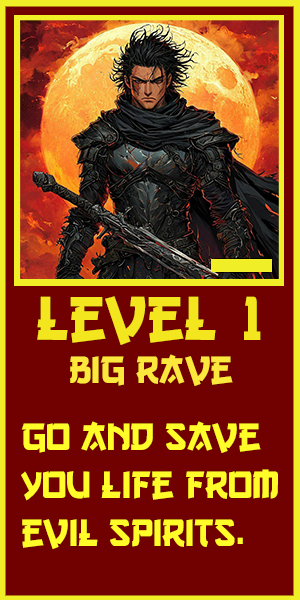
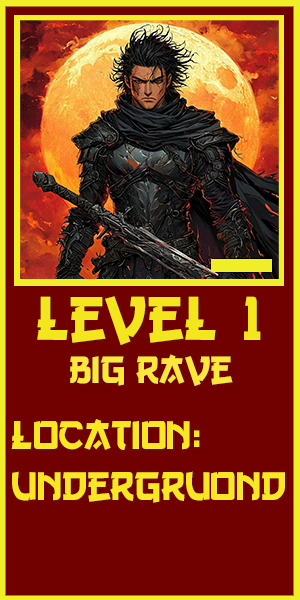
добавлен 2 уровень

Changed region(s): [[0.03, 0.78, 0.96, 0.93], [0.03, 0.69, 0.87, 0.75]]

diff --git a/main_game_file.py b/main_game_file.py
@@ -10,7 +10,7 @@ FPS = 100
 WIDTH, HEIGHT = 1200, 800
 screen = pygame.display.set_mode((WIDTH, HEIGHT))
 clock = pygame.time.Clock()
-
+level_now = 1
 
 class Camera:
     def __init__(self):
@@ -27,6 +27,7 @@ class Camera:
 
 
 camera = Camera()
+
 
 def load_level(filename):
     with open(filename, 'r') as mapFile:
@@ -69,10 +70,15 @@ def generate_level(level):
                 Tile('flour3', x, y)
             elif level[y][x] == '/':
                 Tile('flour2', x, y)
+            elif level[y][x] == ':':
+                Tile('flour6', x, y)
+            elif level[y][x] == '(':
+                Tile('flour7', x, y)
             elif level[y][x] == '#':
                 Tile('wall2', x, y)
+
             elif level[y][x] == '@':
-                if level[y][x-1] == '-':
+                if level[y][x - 1] == '-':
                     Tile('flour', x, y)
                     FallenAngel('fallen_angels/rendered', 'Fallen Angel', x, y, 'flour')
                 elif level[y][x - 1] == '=':
@@ -90,27 +96,39 @@ def generate_level(level):
                 elif level[y][x - 1] == '|':
                     Tile('flour5', x, y)
                     FallenAngel('fallen_angels/rendered', 'Fallen Angel', x, y, 'flour5')
+                elif level[y][x - 1] == ':':
+                    Tile('flour6', x, y)
+                    FallenAngel('fallen_angels/rendered', 'Fallen Angel', x, y, 'flour6')
+                elif level[y][x - 1] == '(':
+                    Tile('flour6', x, y)
+                    FallenAngel('fallen_angels/rendered', 'Fallen Angel', x, y, 'flour7')
 
 
             elif level[y][x] == '&':
-                if level[y][x-1] == '-':
+                if level[y][x - 1] == '-':
                     Tile('flour', x, y)
                     FallenAngel('skeleton/rendered1', 'Sceleton', x, y, 'flour')
-                elif level[y][x-1] == '=':
+                elif level[y][x - 1] == '=':
                     Tile('flour1', x, y)
                     FallenAngel('skeleton/rendered1', 'Sceleton', x, y, 'flour1')
-                elif level[y][x-1] == '/':
+                elif level[y][x - 1] == '/':
                     Tile('flour2', x, y)
                     FallenAngel('skeleton/rendered1', 'Sceleton', x, y, 'flour2')
-                elif level[y][x-1] == '^':
+                elif level[y][x - 1] == '^':
                     Tile('flour3', x, y)
                     FallenAngel('skeleton/rendered1', 'Sceleton', x, y, 'flour3')
-                elif level[y][x-1] == '%':
+                elif level[y][x - 1] == '%':
                     Tile('flour4', x, y)
-                    FallenAngel('skeleton/rendered1', 'Sceleton', x, y, 'flour5')
-                elif level[y][x-1] == '|':
+                    FallenAngel('skeleton/rendered1', 'Sceleton', x, y, 'flour4')
+                elif level[y][x - 1] == '|':
                     Tile('flour5', x, y)
                     FallenAngel('skeleton/rendered1', 'Sceleton', x, y, 'flour5')
+                elif level[y][x - 1] == ':':
+                    Tile('flour6', x, y)
+                    FallenAngel('skeleton/rendered1', 'Sceleton', x, y, 'flour6')
+                elif level[y][x - 1] == '(':
+                    Tile('flour7', x, y)
+                    FallenAngel('skeleton/rendered1', 'Sceleton', x, y, 'flour7')
 
             elif level[y][x] == '.':
                 Tile('empty', x, y)
@@ -125,7 +143,7 @@ def generate_level(level):
 
 
 def terminate():
-    pygame.display.set_caption('closing')
+    '''pygame.display.set_caption('closing')
     pygame.display.set_mode((600, 800))
     ticks = 0
     text = ['please wait', 'please wait.', 'please wait..', 'please wait...']
@@ -138,7 +156,7 @@ def terminate():
         txt = font.render(text[ticks // 50], True, (0, 0, 0))
         screen.blit(txt, (20, 20))
         clock.tick(FPS)
-        pygame.display.flip()
+        pygame.display.flip()'''
     pygame.quit()
     sys.exit()
 
@@ -146,9 +164,9 @@ def terminate():
 def options():
     pygame.display.set_caption('options')
     game_mouse_pos = (0, 0)
-    back_menu_button = exit_menu_button = Button('backgrounds/button2.png', (30, 30), 'x',
-                                                 'data/fonts/go3v2.ttf', 40, 45,
-                                                 (0, 0, 0), (255, 176, 176))
+    back_menu_button = Button('backgrounds/button2.png', (30, 30), 'x',
+                              'data/fonts/go3v2.ttf', 40, 45,
+                              (0, 0, 0), (255, 176, 176))
 
     while True:
         screen.fill('black')
@@ -164,6 +182,38 @@ def options():
         for button in [back_menu_button]:
             button.changeColor(game_mouse_pos)
             button.update(screen)
+        pygame.display.flip()
+
+
+def dead_menu():
+    global level_now
+    dead_menu_mouse_pos = (0, 0)
+    restart = Button('backgrounds/button1.png', (400, 450), 'restart', 'data/fonts/go3v2.ttf', 60, 65,
+                              (0, 0, 0), (255, 176, 176))
+    back_menu_button = Button('backgrounds/button1.png', (800, 450), 'menu', 'data/fonts/go3v2.ttf', 60, 65,
+                              (0, 0, 0), (255, 176, 176))
+
+    while True:
+        for event in pygame.event.get():
+            if event.type == pygame.QUIT:
+                terminate()
+            if event.type == pygame.MOUSEMOTION:
+                dead_menu_mouse_pos = event.pos
+            if event.type == pygame.MOUSEBUTTONDOWN:
+                if back_menu_button.checkForInput(event.pos):
+                    main_menu()
+                elif restart.checkForInput(event.pos):
+                    game(level_now)
+
+        pygame.draw.rect(screen, 'black', (0, 200, 1800, 400))
+        font = pygame.font.Font('data/fonts/go3v2.ttf', 100)
+        text = font.render('You died', True, (128, 5, 5))
+        screen.blit(text, (400, 220))
+
+        for button in [back_menu_button, restart]:
+            button.changeColor(dead_menu_mouse_pos)
+            button.update(screen)
+
         pygame.display.flip()
 
 
@@ -213,6 +263,9 @@ def levels_menu():
     level_one_button = Button('backgrounds/level1.png', (200, 400), '',
                               'data/fonts/go3v2.ttf', 40, 45,
                               (0, 0, 0), (255, 176, 176), 'backgrounds/level1-1.png')
+    level_two_button = Button('backgrounds/level2.png', (575, 400), '',
+                              'data/fonts/go3v2.ttf', 40, 45,
+                              (0, 0, 0), (255, 176, 176), 'backgrounds/level2-1.png')
 
     while True:
         screen.fill('black')
@@ -222,26 +275,60 @@ def levels_menu():
             if event.type == pygame.MOUSEBUTTONDOWN:
                 if exit_menu_button_lvl.checkForInput(event.pos):
                     main_menu()
-                if level_one_button.checkForInput(event.pos):
-                    game()
+                elif level_one_button.checkForInput(event.pos):
+                    level_now = 1
+                    game(1)
+                elif level_two_button.checkForInput(event.pos):
+                    level_now = 2
+                    game(2)
             if event.type == pygame.MOUSEMOTION:
                 lvl_mouse_pos = event.pos
 
-        for button in [exit_menu_button_lvl, level_one_button]:
+        for button in [exit_menu_button_lvl, level_one_button, level_two_button]:
             button.changeColor(lvl_mouse_pos)
-            if button == level_one_button:
+            if button == level_one_button or button == level_two_button:
                 button.update_photo(lvl_mouse_pos)
             button.update(screen)
 
-        pygame.draw.rect(screen, 'white', (425, 100, 300, 600))
         pygame.draw.rect(screen, 'white', (800, 100, 300, 600))
         pygame.display.flip()
 
+def victory_menu():
+    global level_now
+    mouse_pos = (0, 0)
+    next_level_button = Button('backgrounds/button4.png', (400, 450), 'next level', 'data/fonts/go3v2.ttf', 47, 52,
+                     (0, 0, 0), (255, 246, 163))
+    back_menu_button = Button('backgrounds/button4.png', (800, 450), 'menu', 'data/fonts/go3v2.ttf', 50, 57,
+                              (0, 0, 0), (255, 246, 163))
+    while True:
+        for event in pygame.event.get():
+            if event.type == pygame.QUIT:
+                terminate()
+            if event.type == pygame.MOUSEMOTION:
+                mouse_pos = event.pos
+            if event.type == pygame.MOUSEBUTTONDOWN:
+                if next_level_button.checkForInput(event.pos):
+                    level_now += 1
+                    game(level_now)
+                elif back_menu_button.checkForInput(event.pos):
+                    main_menu()
 
-def game():
+        pygame.draw.rect(screen, 'black', (0, 200, 1800, 400))
+        font = pygame.font.Font('data/fonts/go3v2.ttf', 120)
+        text = font.render('Victory', True, (224, 202, 0))
+        screen.blit(text, (390, 220))
+
+        for button in [back_menu_button, next_level_button]:
+            button.changeColor(mouse_pos)
+            button.update(screen)
+
+        pygame.display.flip()
+
+
+def game(level_number):
     pygame.display.set_caption('game')
     game_mouse_pos = (0, 0)
-    player, portal = generate_level(load_level('scripts/level1.txt'))
+    player, portal = generate_level(load_level(f'scripts/level{level_number}.txt'))
     exit_menu_button = Button('backgrounds/button2.png', (30, 30), 'x',
                               'data/fonts/go3v2.ttf', 40, 45,
                               (0, 0, 0), (255, 176, 176))
@@ -329,7 +416,7 @@ def game():
             hurt_flag = True
             attack_ticks, run_flag, idle_flag, protection_flag = False, False, False, False
 
-        attack_flag, run_flag, idle_flag, hurt_flag, dead_flag, protection_flag = player.animation_script(
+        attack_flag, run_flag, idle_flag, hurt_flag, dead_flag, protection_flag, stop = player.animation_script(
             attack_flag, run_flag, idle_flag, hurt_flag, dead_flag, protection_flag)
 
         for hlth in health_group:
@@ -338,14 +425,19 @@ def game():
             if not hlth.get_full():
                 hlth.destroy(player.health_upp(group))
 
-        if portal.checkCollision(player_group):
-            for elem in all_sprites:
-                elem.kill()
-            main_menu()
-
         tile_group.draw(screen)
         antogonisti_sprites.update(screen, player.get_pos(), ticks)
         player_group.draw(screen)
+
+        if portal.checkCollision(player_group):
+            for elem in all_sprites:
+                elem.kill()
+            victory_menu()
+
+        if stop:
+            for elem in all_sprites:
+                elem.kill()
+            dead_menu()
 
         for button in [exit_menu_button]:
             button.changeColor(game_mouse_pos)
@@ -405,4 +497,4 @@ def main_menu():
 
 
 if __name__ == '__main__':
-    load_screen()
+    main_menu()

diff --git a/scripts/characters.py b/scripts/characters.py
@@ -11,6 +11,7 @@ tiles_image = {'wall1': 'backgrounds/wall1.png',
                'flour4': 'backgrounds/flour1.png',
                'flour5': 'backgrounds/flour1.png',
                'flour6': 'backgrounds/flour1.png',
+               'flour7': 'backgrounds/flour1.png',
                'empty': 'backgrounds/Empty.png'}
 player_group = pygame.sprite.Group()
 tile_group = pygame.sprite.Group()
@@ -91,6 +92,7 @@ class Player(pygame.sprite.Sprite):
 
     def animation_script(self, attack_flag, run_flag, idle_flag, hurt_flag, dead_flag, protection_flag):
         self.ticks += 1
+        stop = False
         if dead_flag:
             attack_flag, run_flag, idle_flag, hurt_flag, protection_flag = False, False, False, False, False
             if self.ticks % 6 == 0:
@@ -99,6 +101,7 @@ class Player(pygame.sprite.Sprite):
                     self.image = pygame.transform.flip(load_image(f'samurai/randered/Dead{self.dead}.png'), self.dir,
                                                        False)
                 elif self.dead > 10:
+                    stop = True
                     self.kill()
         elif hurt_flag:
             if self.ticks % 8 == 0:
@@ -132,7 +135,7 @@ class Player(pygame.sprite.Sprite):
                 self.image = pygame.transform.flip(load_image(f'samurai/randered/Idle{self.idle}.png'), self.dir, False)
             self.run = 0
 
-        return attack_flag, run_flag, idle_flag, hurt_flag, dead_flag, protection_flag
+        return attack_flag, run_flag, idle_flag, hurt_flag, dead_flag, protection_flag, stop
 
     def get_room(self):
         if pygame.sprite.spritecollideany(self, room1):
@@ -147,6 +150,10 @@ class Player(pygame.sprite.Sprite):
             return 'flour4'
         elif pygame.sprite.spritecollideany(self, room6):
             return 'flour5'
+        elif pygame.sprite.spritecollideany(self, room7):
+            return 'flour6'
+        elif pygame.sprite.spritecollideany(self, room8):
+            return 'flour7'
 
     def aliveCheck(self):
         if self.hp <= 0:
@@ -221,18 +228,18 @@ class FallenAngel(pygame.sprite.Sprite):
                         self.rect.y + self.rect.h // 2 - pos[1]) > 60:
                     if self.rect.x - pos[0] < 0:
                         self.rect = self.rect.move((2, 0))
-                        x = 2
+                        x = 4
                         self.dir = False
                     else:
                         self.rect = self.rect.move((-2, 0))
-                        x = -2
+                        x = -4
                         self.dir = True
                     if self.rect.y - pos[1] < 0:
                         self.rect = self.rect.move((0, 2))
-                        y = 2
+                        y = 4
                     else:
                         self.rect = self.rect.move((0, -2))
-                        y = -2
+                        y = -4
                     if self.ticks % 5 == 0:
                         self.animation = self.animation % 8 + 1
                         self.image = pygame.transform.flip(
@@ -313,6 +320,10 @@ class Tile(pygame.sprite.Sprite):
             room5.add(self)
         elif self.type == 'flour5':
             room6.add(self)
+        elif self.type == 'flour6':
+            room7.add(self)
+        elif self.type == 'flour7':
+            room8.add(self)
         self.hp = 100
 
     def get_type(self):

diff --git a/scripts/decore.py b/scripts/decore.py
@@ -1,6 +1,7 @@
 import pygame
 
 word_group = []
+
 s = 190
 
 class Text():
